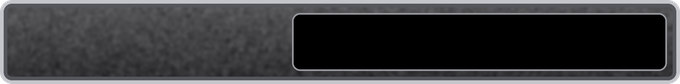
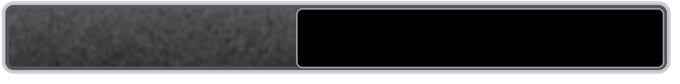
fix(ui-hd): fit the stat value box to the original geometry so the plus button sits inside it

diff --git a/tools/ui_hd/statrow.py b/tools/ui_hd/statrow.py
@@ -18,8 +18,6 @@ SPECS = {TEXTBOX, PLUS_BUTTON}
 
 BOX_CORNER = 3.0
 FRAME_WIDTH = 0.9
-DIVIDER_X = 73.0
-VALUE_INSET = 1.4
 FRAME_LIGHT = (196, 198, 204)
 FRAME_DARK = (84, 86, 92)
 PLATE_TOP = (88, 88, 90)
@@ -53,6 +51,16 @@ def vertical_fill(size, top, bottom):
     return np.broadcast_to(colours, (size[1], size[0], 3))
 
 
+# Geometry of the original box inside its 170 x 21 texture (measured): the frame spans x 0..167 and y 0.3..18.3 and the
+# value box lies at x 74..166, y 2..17, exactly under the 16 x 15 "+" button the game draws at x + 149, y + 2.
+FRAME_RECT = (0.4, 0.3, 167.6, 18.3)
+VALUE_RECT = (74.0, 2.0, 166.0, 17.0)
+
+
+def scaled_rect(rect):
+    return [to_big(v) for v in rect]
+
+
 def draw_textbox():
     width, height = 170, 21
     big = (to_big(width), to_big(height))
@@ -66,21 +74,20 @@ def draw_textbox():
     plate += grain[..., None]
     plate_img = Image.fromarray(np.clip(plate, 0, 255).astype(np.uint8), "RGB").convert("RGBA")
 
+    frame_box = scaled_rect(FRAME_RECT)
     outer = Image.new("L", big, 0)
-    ImageDraw.Draw(outer).rounded_rectangle([0, 0, big[0] - 1, big[1] - 1], radius=to_big(BOX_CORNER), fill=255)
+    ImageDraw.Draw(outer).rounded_rectangle(frame_box, radius=to_big(BOX_CORNER), fill=255)
     out.paste(plate_img, (0, 0), outer)
 
     frame = to_big(FRAME_WIDTH)
     for index, colour in enumerate((FRAME_LIGHT, FRAME_DARK)):
         inset = frame * index
-        draw.rounded_rectangle([inset, inset, big[0] - 1 - inset, big[1] - 1 - inset],
-                               radius=max(to_big(BOX_CORNER) - inset, 2), outline=colour + (255,), width=frame)
+        box = [frame_box[0] + inset, frame_box[1] + inset, frame_box[2] - inset, frame_box[3] - inset]
+        draw.rounded_rectangle(box, radius=max(to_big(BOX_CORNER) - inset, 2), outline=colour + (255,), width=frame)
 
-    value_left = to_big(DIVIDER_X)
-    pad = to_big(VALUE_INSET) + frame * 2
-    box = [value_left, pad, big[0] - 1 - pad, big[1] - 1 - pad]
-    draw.rounded_rectangle(box, radius=to_big(2.0), fill=VALUE_FILL + (255,))
-    draw.rounded_rectangle(box, radius=to_big(2.0), outline=(150, 152, 158, 255), width=max(frame // 2, 1))
+    value = scaled_rect(VALUE_RECT)
+    draw.rounded_rectangle(value, radius=to_big(1.6), fill=VALUE_FILL + (255,))
+    draw.rounded_rectangle(value, radius=to_big(1.6), outline=(150, 152, 158, 255), width=max(frame // 2, 1))
     return np.asarray(shrink(out, (width * SCALE, height * SCALE)))
 
 
